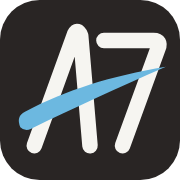
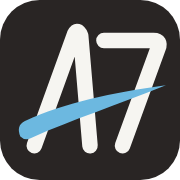
AF mark: lower the brushstroke to the middle of the 7
Claude-Session: https://claude.ai/code/session_015CisTUgFv4Vsw8V6TVV7TY

Changed region(s): [[0.0833, 0.3611, 0.9167, 0.7778]]

diff --git a/src/components/BrandMark.vue b/src/components/BrandMark.vue
@@ -22,7 +22,7 @@ defineProps<{ size?: number }>()
     </g>
     <path
       class="brand-swoosh"
-      d="M5 74 Q2 67 8 64 C35 50 63 41 99 35 C67 49 39 62 12 75 Q8 77 5 74 Z"
+      d="M5 80 Q2 73 8 70 C35 58 63 52 99 47 C67 60 39 69 12 81 Q8 83 5 80 Z"
     />
   </svg>
 </template>
